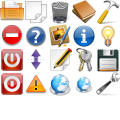
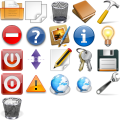
Optische änderungen

Changed region(s): [[0.0, 0.8, 0.2, 1.0]]

diff --git a/admin/jquery/catpage_func.js b/admin/jquery/catpage_func.js
@@ -188,15 +188,16 @@ function make_input_target(cat_page) {
     var curent_target = get_target(cat_page);
     if(!curent_target)
         return "";
-    var inputs = mozilo_lang["target"] + " <form>";
+    var inputs = "<b>" + mozilo_lang["target"] + "</b>" + " <form>";
     var for_id = new Date();
     for_id = for_id.getTime();
     for(var i = 0; i < target_array.length; i++) {
-        inputs += "<label for=\"target" + for_id + i + "\">" + mozilo_lang[target_array[i].replace(/-|_/g,"")] + "</label>" + "<input id=\"target" + for_id + i + "\" name=\"radio\" type=\"radio\" value=\""+target_array[i]+"\" class=\"js-in-radio js-make-input\"";
+        inputs += "<input id=\"target" + for_id + i + "\" name=\"radio\" type=\"radio\" value=\""+target_array[i]+"\" class=\"js-in-radio js-make-input\"";
         if(target_array[i] == curent_target) {
             inputs += " checked=\"checked\"";
         }
         inputs += " />";
+        inputs += "<label for=\"target" + for_id + i + "\">" + mozilo_lang[target_array[i].replace(/-|_/g,"")] + "</label>";
     }
     return inputs + "</form>";
 }
@@ -205,15 +206,16 @@ function make_input_ext(cat_page) {
     var curent_ext = get_ext(cat_page);
     if(!curent_ext || curent_ext == EXT_LINK)
         return "";
-    var inputs = mozilo_lang["page_status"] + ": <form>",
+    var inputs = "<b>" + mozilo_lang["page_status"] + "</b>" + ": <form>",
         for_id = new Date();
     for_id = for_id.getTime();
     for(var i = 0; i < ext_array.length - 1; i++) {
-        inputs += "<label for=\"status" + for_id + i + "\">" + mozilo_lang[ext_array[i]] + "</label>" + "<input id=\"status" + for_id + i + "\" name=\"radio\" type=\"radio\" value=\""+ext_array[i]+"\" class=\"js-in-radio js-make-input\"";
+        inputs += "<input id=\"status" + for_id + i + "\" name=\"radio\" type=\"radio\" value=\""+ext_array[i]+"\" class=\"js-in-radio js-make-input\"";
         if(ext_array[i] == curent_ext) {
             inputs += " checked=\"checked\"";
         }
         inputs += " />";
+        inputs += "<label for=\"status" + for_id + i + "\">" + mozilo_lang[ext_array[i]] + "</label>";
     }
     return inputs + "</form>";
 }

diff --git a/admin/jquery/config.js b/admin/jquery/config.js
@@ -124,14 +124,8 @@ $(function() {
             accept: "#js-config-default-color-box > img",
             hoverClass: "ui-state-default",
             tolerance: "touch",
-            out: function( event, ui ) {
-                $(this).attr('src',URL_BASE+ADMIN_DIR_NAME+'/gfx/icons/24x24/delete.png');
-            },
-            over: function( event, ui ) {
-                $(this).attr('src',URL_BASE+ADMIN_DIR_NAME+'/gfx/icons/24x24/delete_full.png');
-            },
             drop: function( event, ui ) {
-                $(this).attr('src',URL_BASE+ADMIN_DIR_NAME+'/gfx/icons/24x24/delete.png');
+                $(this).addClass("mo-icons-delete-full").removeClass("mo-icons-delete");
                 ui.draggable.remove();
             }
         });
@@ -139,6 +133,7 @@ $(function() {
 
         $('.js-save-default-color').bind("click", function(){
             make_para($('input[name="defaultcolors"]'));
+            $js_del_config_default_color.addClass("mo-icons-delete").removeClass("mo-icons-delete-full");
             if($default_color_drag.html().length > 10)
                 $('#ce-colorchange .ce-default-color-box').show();
             else

diff --git a/admin/admin.css b/admin/admin.css
@@ -581,4 +581,11 @@ div#dialog-multi .mo-login-box, div#dialog-test-w .mo-login-box {
 .mo-icons-website       {background-position: -48px -72px;}
 .mo-icons-website-small {background-position: -72px -72px;}
 .mo-icons-work          {background-position: -96px -72px;}
-.mo-icons-blank         {background-position: 0 -96px; cursor: default;}
+.mo-icons-delete-full   {background-position: 0 -96px;}
+.mo-icons-blank         {background-position: -96px -96px; cursor: default;}
+
+#js-del-config-default-color.ui-state-default {
+    background-image:url(gfx/mo_icons.png);
+    background-position: 0 -96px;
+}
+

diff --git a/cms/DefaultFunc.php b/cms/DefaultFunc.php
@@ -2,6 +2,7 @@
 
 function cleanREQUEST($post_return) {
     foreach($post_return as $key => $value) {
+#!!!!!! der key muss auch geprüft werden
         if(is_array($post_return[$key])) {
             $post_return[$key] = cleanREQUEST($post_return[$key]);
         } else {
